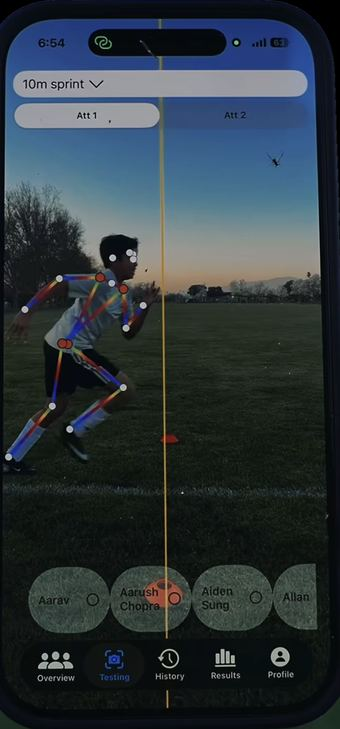
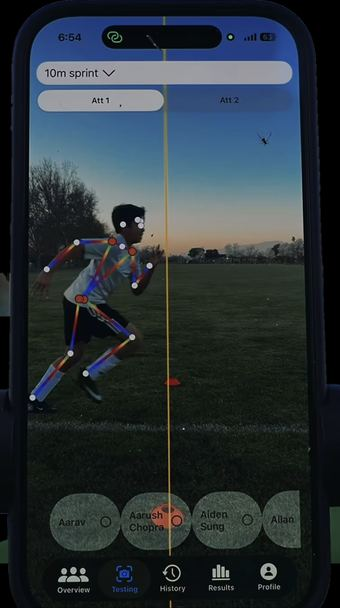
Add files via upload

diff --git a/index.html b/index.html
@@ -1048,7 +1048,7 @@ footer a:focus-visible{outline:2px solid var(--pink);outline-offset:3px}
         <span class="promo-screen">
           <picture>
             <source type="image/avif" srcset="assets/images/game1-map-340.avif 340w, assets/images/game1-map-560.avif 560w" sizes="(max-width:820px) 132px, 192px">
-            <img src="assets/images/game1-map-560.jpg" srcset="assets/images/game1-map-340.jpg 340w, assets/images/game1-map-560.jpg 560w" sizes="(max-width:820px) 132px, 192px" width="560" height="1201" loading="lazy" decoding="async" alt="Telefoon die tijdens een sprinttest een speler doormeet, met de bewegingspunten van de AI over het beeld">
+            <img src="assets/images/game1-map-560.jpg" srcset="assets/images/game1-map-340.jpg 340w, assets/images/game1-map-560.jpg 560w" sizes="(max-width:820px) 132px, 192px" width="560" height="1001" loading="lazy" decoding="async" alt="Telefoon die tijdens een sprinttest een speler doormeet, met de bewegingspunten van de AI over het beeld">
           </picture>
         </span>
       </a>
